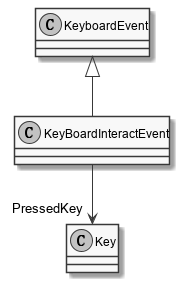
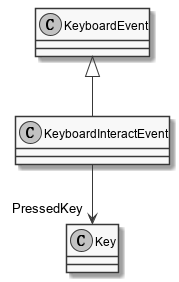
Change the sd to fit all suggestions

Changed region(s): [[0.3631, 0.4539, 0.7821, 0.5106], [0.0559, 0.3972, 0.2514, 0.5957], [0.8101, 0.4539, 0.9497, 0.5106]]

diff --git a/documents/sd/chapter/Classes/Modules/Mouse/Mouse.tex b/documents/sd/chapter/Classes/Modules/Mouse/Mouse.tex
@@ -3,10 +3,12 @@
 \begin{class}{MouseModule} 
     \clsdiagram{resources/Classes/Modules/Mouse/MouseModule.png}
 
-    \clsdcl{public class MouseModule}
+    \clsdcl{public class MouseModule : ICollectingModule}
 
     \clsdsp{The MouseModule is responsible for recording all mouse related user interactions.}
 \end{class}
+
+\subsection*{Events}
 
 \begin{absclass}{MouseEvent} 
     \clsdiagram{resources/Classes/Modules/Mouse/Events/MouseEvent.png}
@@ -24,9 +26,9 @@
     \clsdsp{ A mouse click user interaction.}
 
     \begin{attributes}
-        \attribute{public MouseButton Button}{The button that was clicked.}
-        \attribute{public MouseButtonState State}{The state of the button that was clicked.}
-        \attribute{public IntPtr HWnd}{The handle of the window in which the mouse click occurred.}
+        \attribute{public System.Windows.Input.MouseButton Button}{The button that was clicked.}
+        \attribute{public System.Windows.Input.MouseButtonState State}{The state of the button that was clicked.}
+        \attribute{public System.IntPtr HWnd}{The handle of the window in which the mouse click occurred.}
     \end{attributes}
 \end{class}
 
@@ -38,7 +40,7 @@
     \clsdsp{A mouse move user interaction.}
 
     \begin{attributes}
-        \attribute{public Vector2 Movement}{The movement of the mouse.}
+        \attribute{public System.Numerics.Vector2 Movement}{The movement of the mouse.}
     \end{attributes}
 \end{class}
 
@@ -51,6 +53,6 @@
 
     \begin{attributes}
         \attribute{public short ScrollAmount}{The amount of the wheel being scrolled.}
-        \attribute{public IntPtr HWnd}{The handle of the window in which the mouse scroll occurred.}
+        \attribute{public System.IntPtr HWnd}{The handle of the window in which the mouse scroll occurred.}
     \end{attributes}
 \end{class}

diff --git a/documents/sd/chapter/Classes/Modules/WindowManagement/WindowManagement.tex b/documents/sd/chapter/Classes/Modules/WindowManagement/WindowManagement.tex
@@ -3,10 +3,12 @@
 \begin{class}{WindowManagementModule} 
     \clsdiagram{resources/Classes/Modules/WindowManagement/WindowManagementModule.png}
 
-    \clsdcl{public class WindowManagementModule}
+    \clsdcl{public class WindowManagementModule : ICollectingModule}
 
     \clsdsp{The WindowManagementModule is responsible for recording all window related user interactions.}
 \end{class}
+
+\subsection*{Events}
 
 \begin{absclass}{WindowEvent} 
     \clsdiagram{resources/Classes/Modules/WindowManagement/Events/WindowEvent.png}
@@ -37,8 +39,8 @@
     \clsdsp{ A window movement user interaction.}
 
     \begin{attributes}
-        \attribute{public Vector2 OldLocation}{The old location of the window.}
-        \attribute{public Vector2 NewLocation}{The new location of the window.}
+        \attribute{public System.Numerics.Vector2 OldLocation}{The old location of the window.}
+        \attribute{public System.Numerics.Vector2 NewLocation}{The new location of the window.}
     \end{attributes}
 \end{class}
 
@@ -50,8 +52,8 @@
     \clsdsp{A window resizing user interaction.}
 
     \begin{attributes}
-        \attribute{public Size OldSize}{The old size of the window.}
-        \attribute{public Size NewSize}{The new size of the window.}
+        \attribute{public System.Drawing.Size OldSize}{The old size of the window.}
+        \attribute{public System.Drawing.Size NewSize}{The new size of the window.}
     \end{attributes}
 \end{class}
 
@@ -63,6 +65,6 @@
     \clsdsp{An user interaction that changes the state of a window.}
 
     \begin{attributes}
-        \attribute{public WindowState State}{The new state of the window.}
+        \attribute{public System.Windows.WindowState State}{The new state of the window.}
     \end{attributes}
 \end{class}

diff --git a/documents/sd/chapter/Classes/Modules/Keyboard/Keyboard.tex b/documents/sd/chapter/Classes/Modules/Keyboard/Keyboard.tex
@@ -2,10 +2,12 @@
 \begin{class}{KeyboardModule} 
     \clsdiagram{resources/Classes/Modules/Keyboard/KeyboardModule.png}
 
-    \clsdcl{public class KeyboardModule}
+    \clsdcl{public class KeyboardModule : ICollectingModule}
 
     \clsdsp{The KeyboardModule is responsible for recording all keyboard related user interactions.}
 \end{class}
+
+\subsection*{Events}
 
 \begin{absclass}{KeyboardEvent} 
     \clsdiagram{resources/Classes/Modules/Keyboard/Events/KeyboardEvent.png}
@@ -15,14 +17,14 @@
     \clsdsp{A generic keyboard event which all specific KeyboardEvents inherit from.}
 \end{absclass}
 
-\begin{class}{KeyBoardInteractEvent} 
-    \clsdiagram{resources/Classes/Modules/Keyboard/Events/KeyBoardInteractEvent.png}
+\begin{class}{KeyboardInteractEvent} 
+    \clsdiagram{resources/Classes/Modules/Keyboard/Events/KeyboardInteractEvent.png}
 
-    \clsdcl{public class KeyBoardInteractEvent : KeyboardEvent}
+    \clsdcl{public class KeyboardInteractEvent : KeyboardEvent}
 
     \clsdsp{A keyboard user interaction.}
 
     \begin{attributes}
-        \attribute{public Key PressedKey}{The key that was pressed.}
+        \attribute{public Key System.Windows.Input.PressedKey}{The key that was pressed.}
     \end{attributes}
 \end{class}

diff --git a/documents/sd/chapter/Classes/Modules/Clipboard/Clipboard.tex b/documents/sd/chapter/Classes/Modules/Clipboard/Clipboard.tex
@@ -3,10 +3,12 @@
 \begin{class}{ClipboardModule} 
     \clsdiagram{resources/Classes/Modules/Clipboard/ClipboardModule.png}
 
-    \clsdcl{public class ClipboardModule}
+    \clsdcl{public class ClipboardModule : ICollectingModule}
 
     \clsdsp{The ClipboardModule is responsible for recording all clipboard related user interactions.}
 \end{class}
+
+\subsection*{Events}
 
 \begin{absclass}{ClipboardEvent} 
     \clsdiagram{resources/Classes/Modules/Clipboard/Events/ClipboardEvent.png}
@@ -16,10 +18,10 @@
     \clsdsp{A generic clipboard event which all specific ClipboardEvents inherit from.}
 \end{absclass}
 
-\begin{class}{ClipBoardInteractEvent} 
-    \clsdiagram[scale=0.9]{resources/Classes/Modules/Clipboard/Events/ClipBoardInteractEvent.png}
+\begin{class}{ClipboardInteractEvent} 
+    \clsdiagram[scale=0.9]{resources/Classes/Modules/Clipboard/Events/ClipboardInteractEvent.png}
 
-    \clsdcl{public class ClipBoardInteractEvent : ClipboardEvent}
+    \clsdcl{public class ClipboardInteractEvent : ClipboardEvent}
 
     \clsdsp{A clipboard user interaction.}
 

diff --git a/application/Modules/Clipboard/Events/ClipBoardInteractEvent.cs b/application/Modules/Clipboard/Events/ClipBoardInteractEvent.cs
@@ -1,6 +1,4 @@
-using System;
-
-namespace MORR.Modules.Clipboard.Events
+namespace MORR.Modules.Clipboard.Events
 {
     /// <summary>
     ///     A clipboard user interaction
